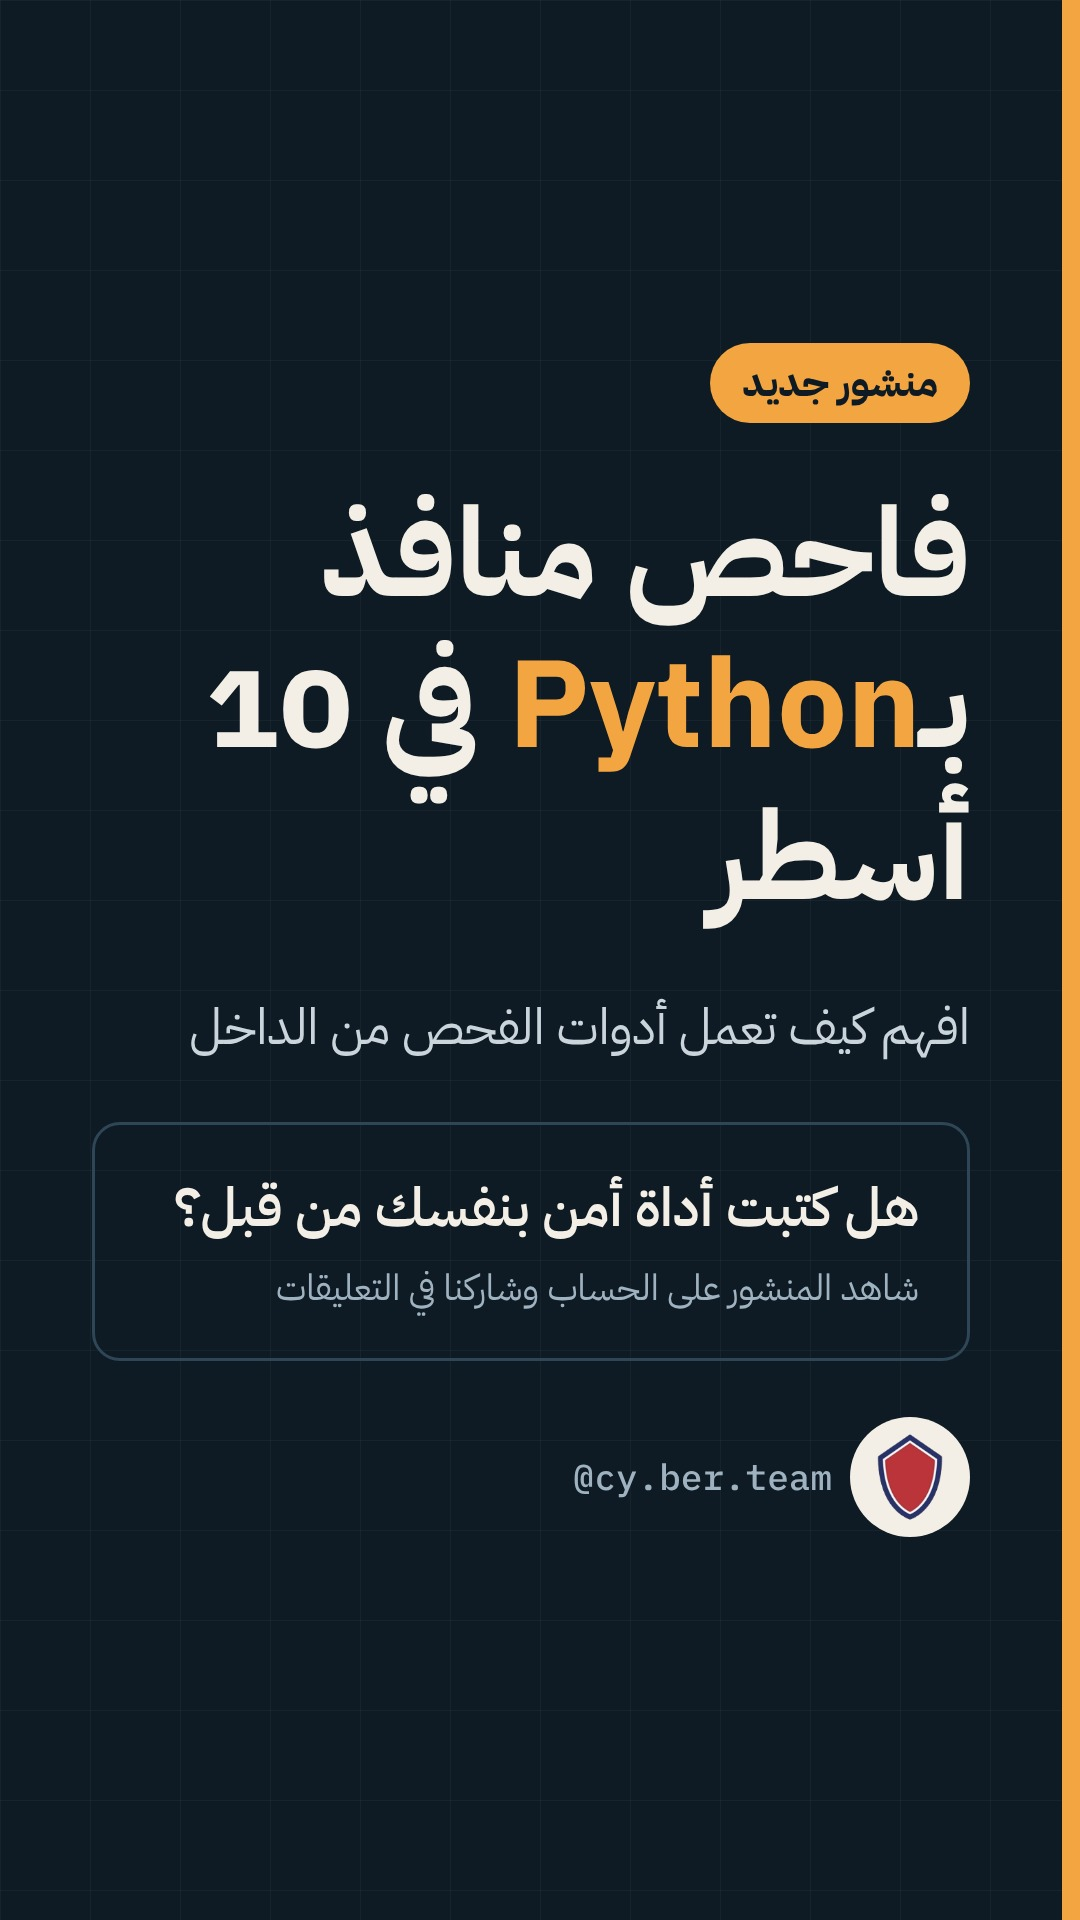
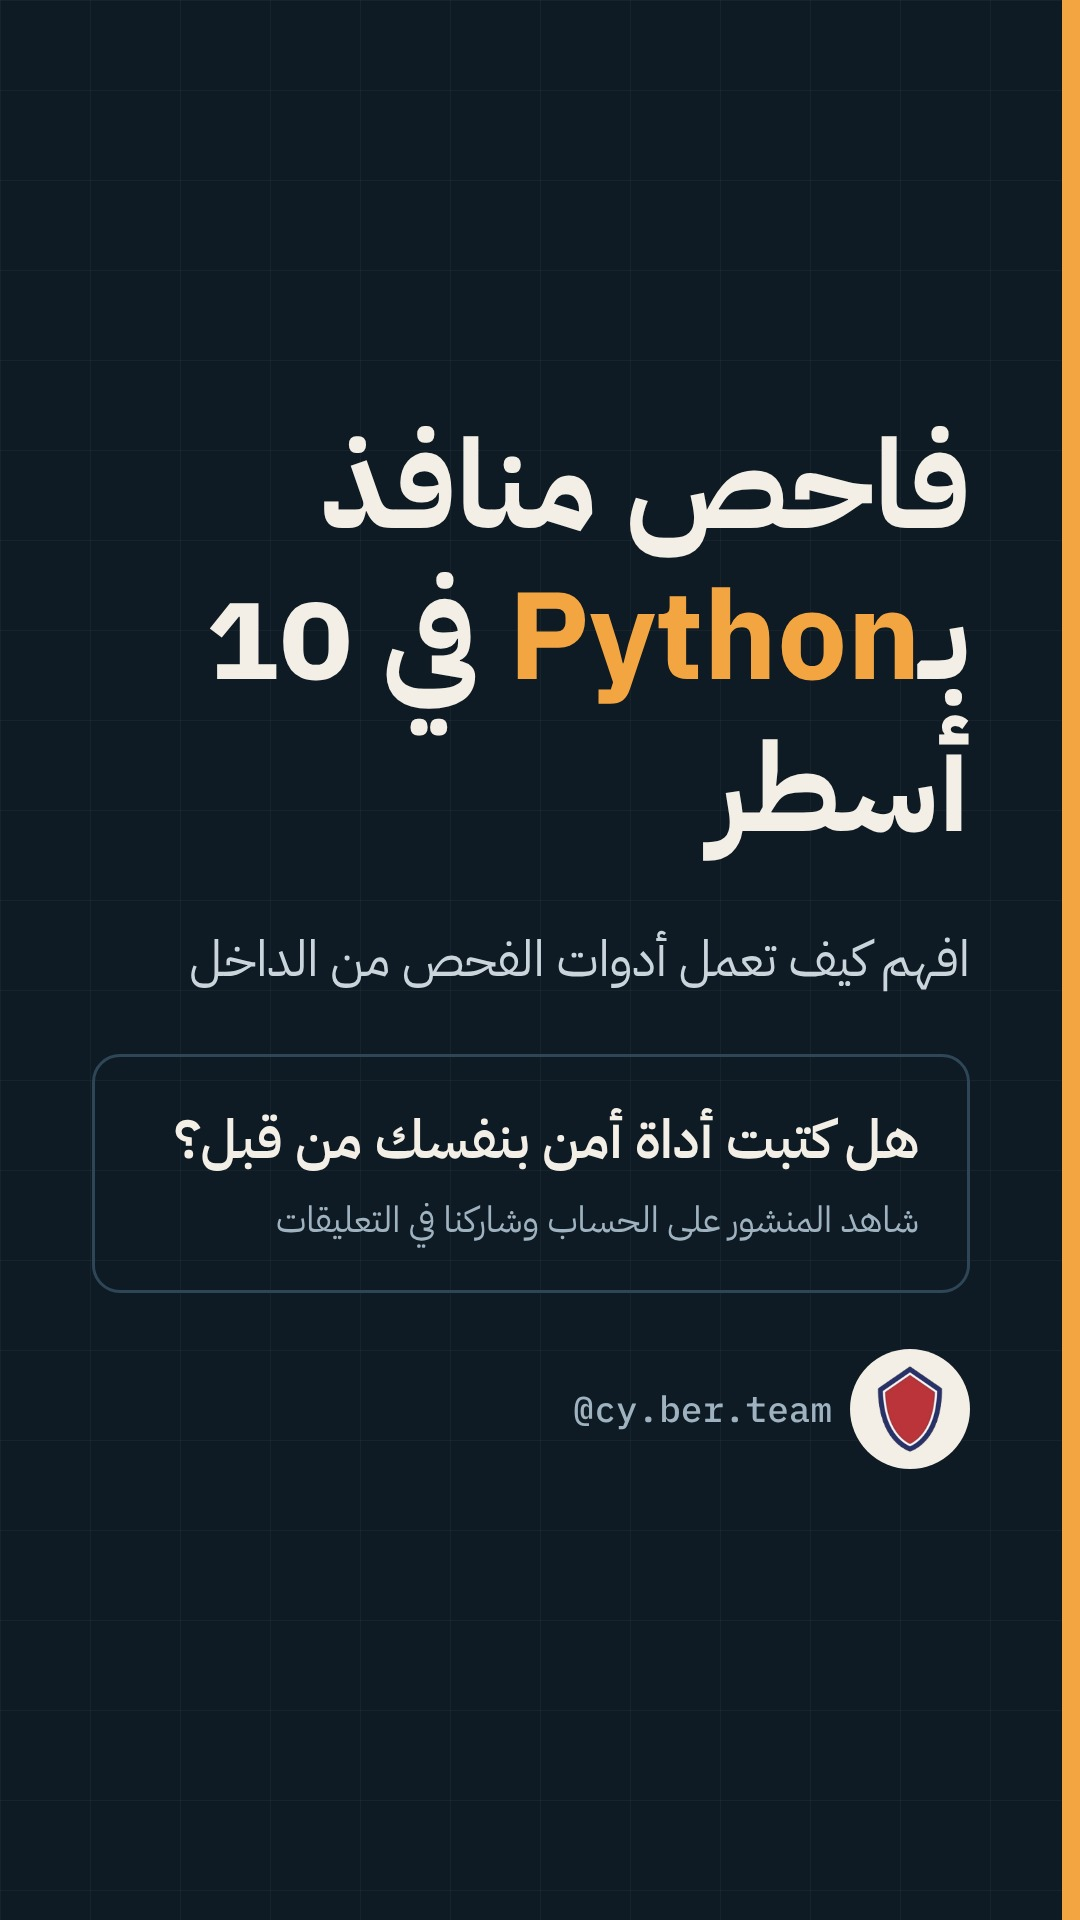
Remove the new-post label from stories
Claude-Session: https://claude.ai/code/session_01XppMo1oqusFZ4ARkGMZUgN

diff --git a/instagram/tools/story.js b/instagram/tools/story.js
@@ -25,7 +25,7 @@ h1{font-size:124px;line-height:1.22;font-weight:700}h1 em{font-style:normal;colo
 .q small{display:block;font-size:36px;font-weight:400;color:#9FB2BF;margin-top:14px}
 .h{font-family:"Mono",monospace;direction:ltr;font-size:36px;color:#9FB2BF;display:flex;align-items:center;justify-content:flex-end;gap:18px}.h img{width:120px;height:120px;background:#F3EFE6;border-radius:50%;padding:16px;box-sizing:border-box}
 </style></head><body><div class="grid"></div><div class="band"></div><div class="page">
-<div class="tag">${s.tag}</div><h1>${s.h}</h1><p class="sub">${s.sub}</p>
+<h1>${s.h}</h1><p class="sub">${s.sub}</p>
 <div class="q">${s.q}<small>شاهد المنشور على الحساب وشاركنا في التعليقات</small></div><div class="h">@cy.ber.team<img src="${LOGO}" alt=""></div></div></body></html>`;
 (async () => {
   const b = await chromium.launch(); const p = await b.newPage({ viewport: { width: 1080, height: 1920 }, deviceScaleFactor: 1 });
